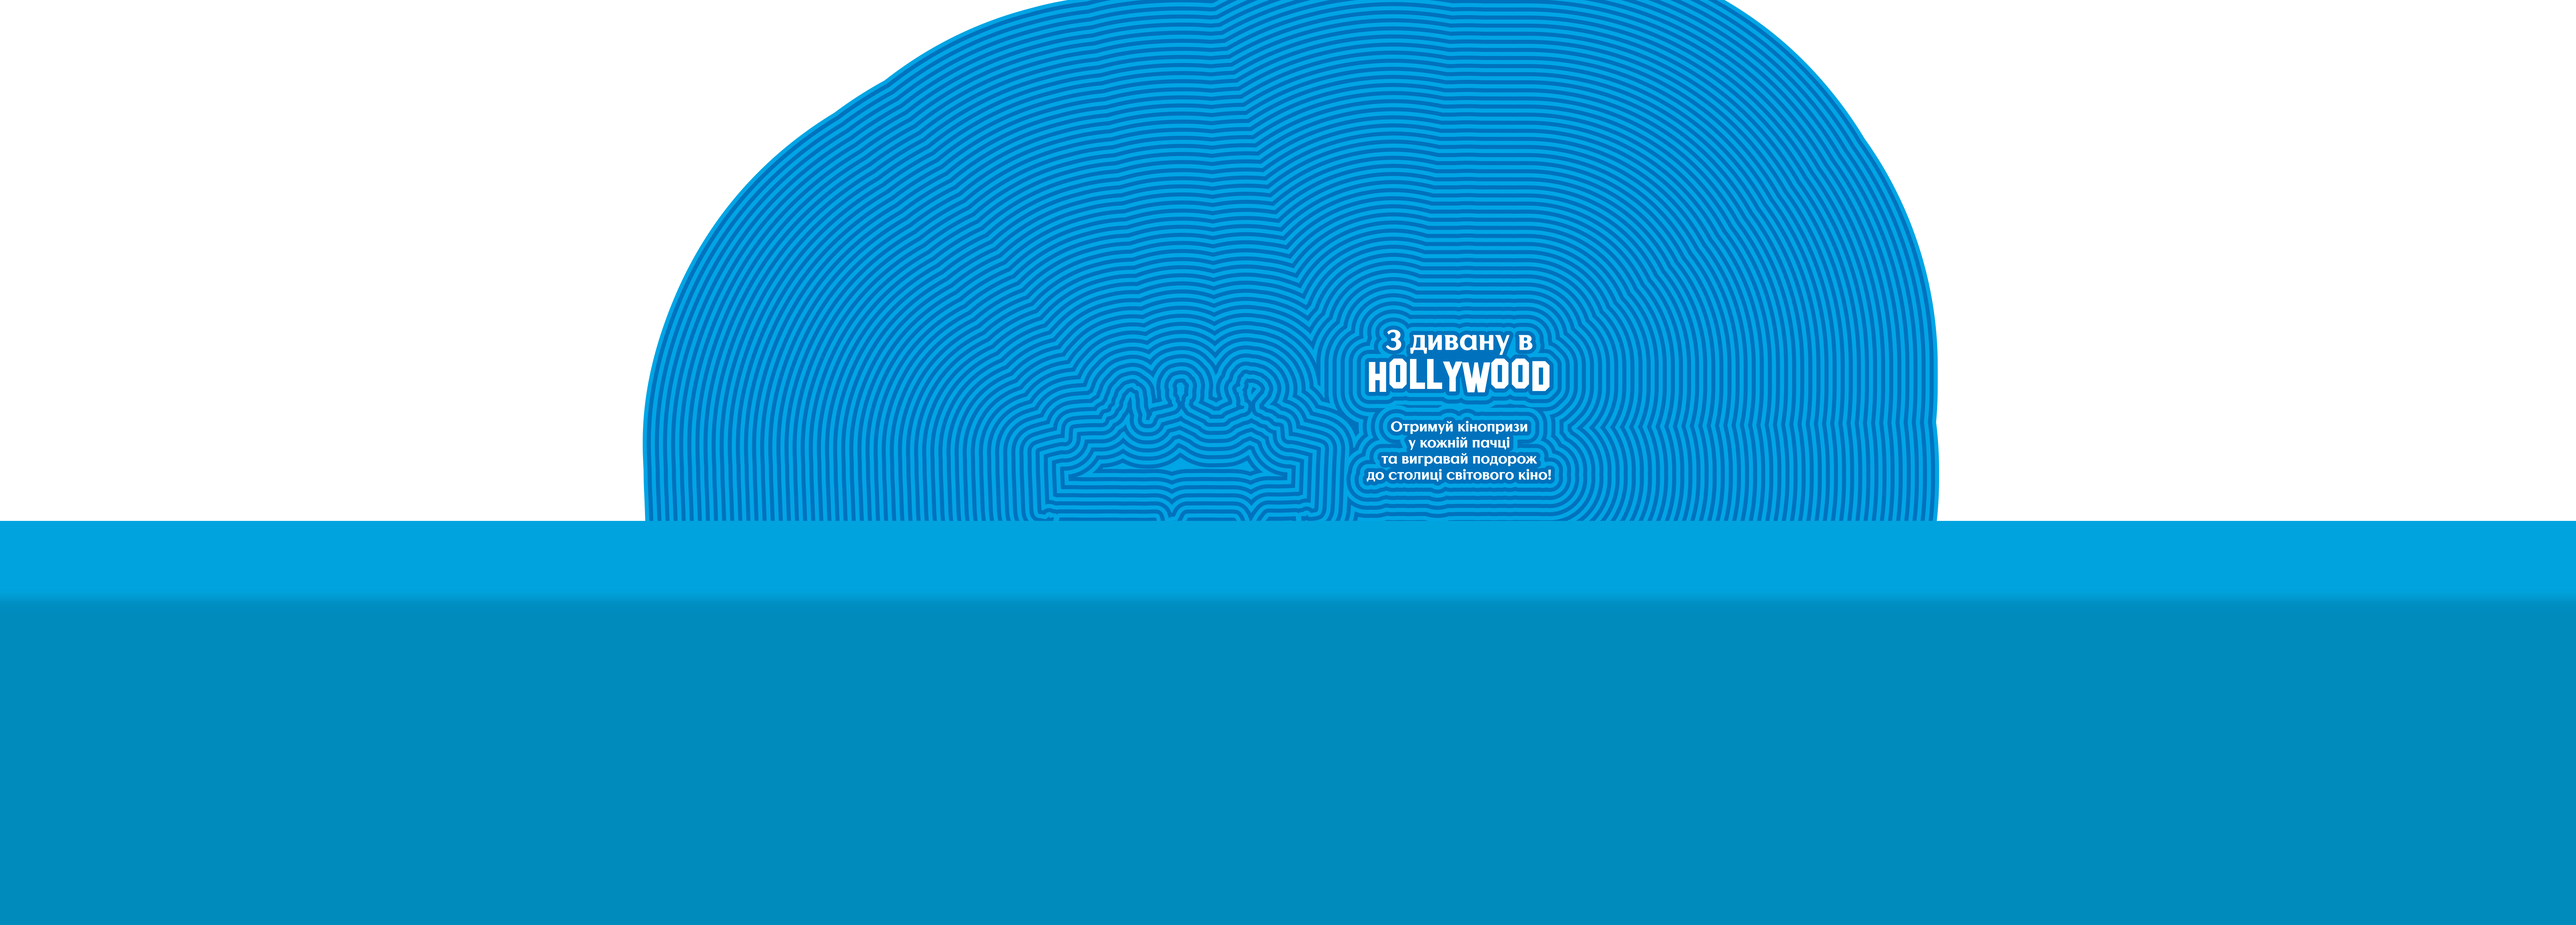
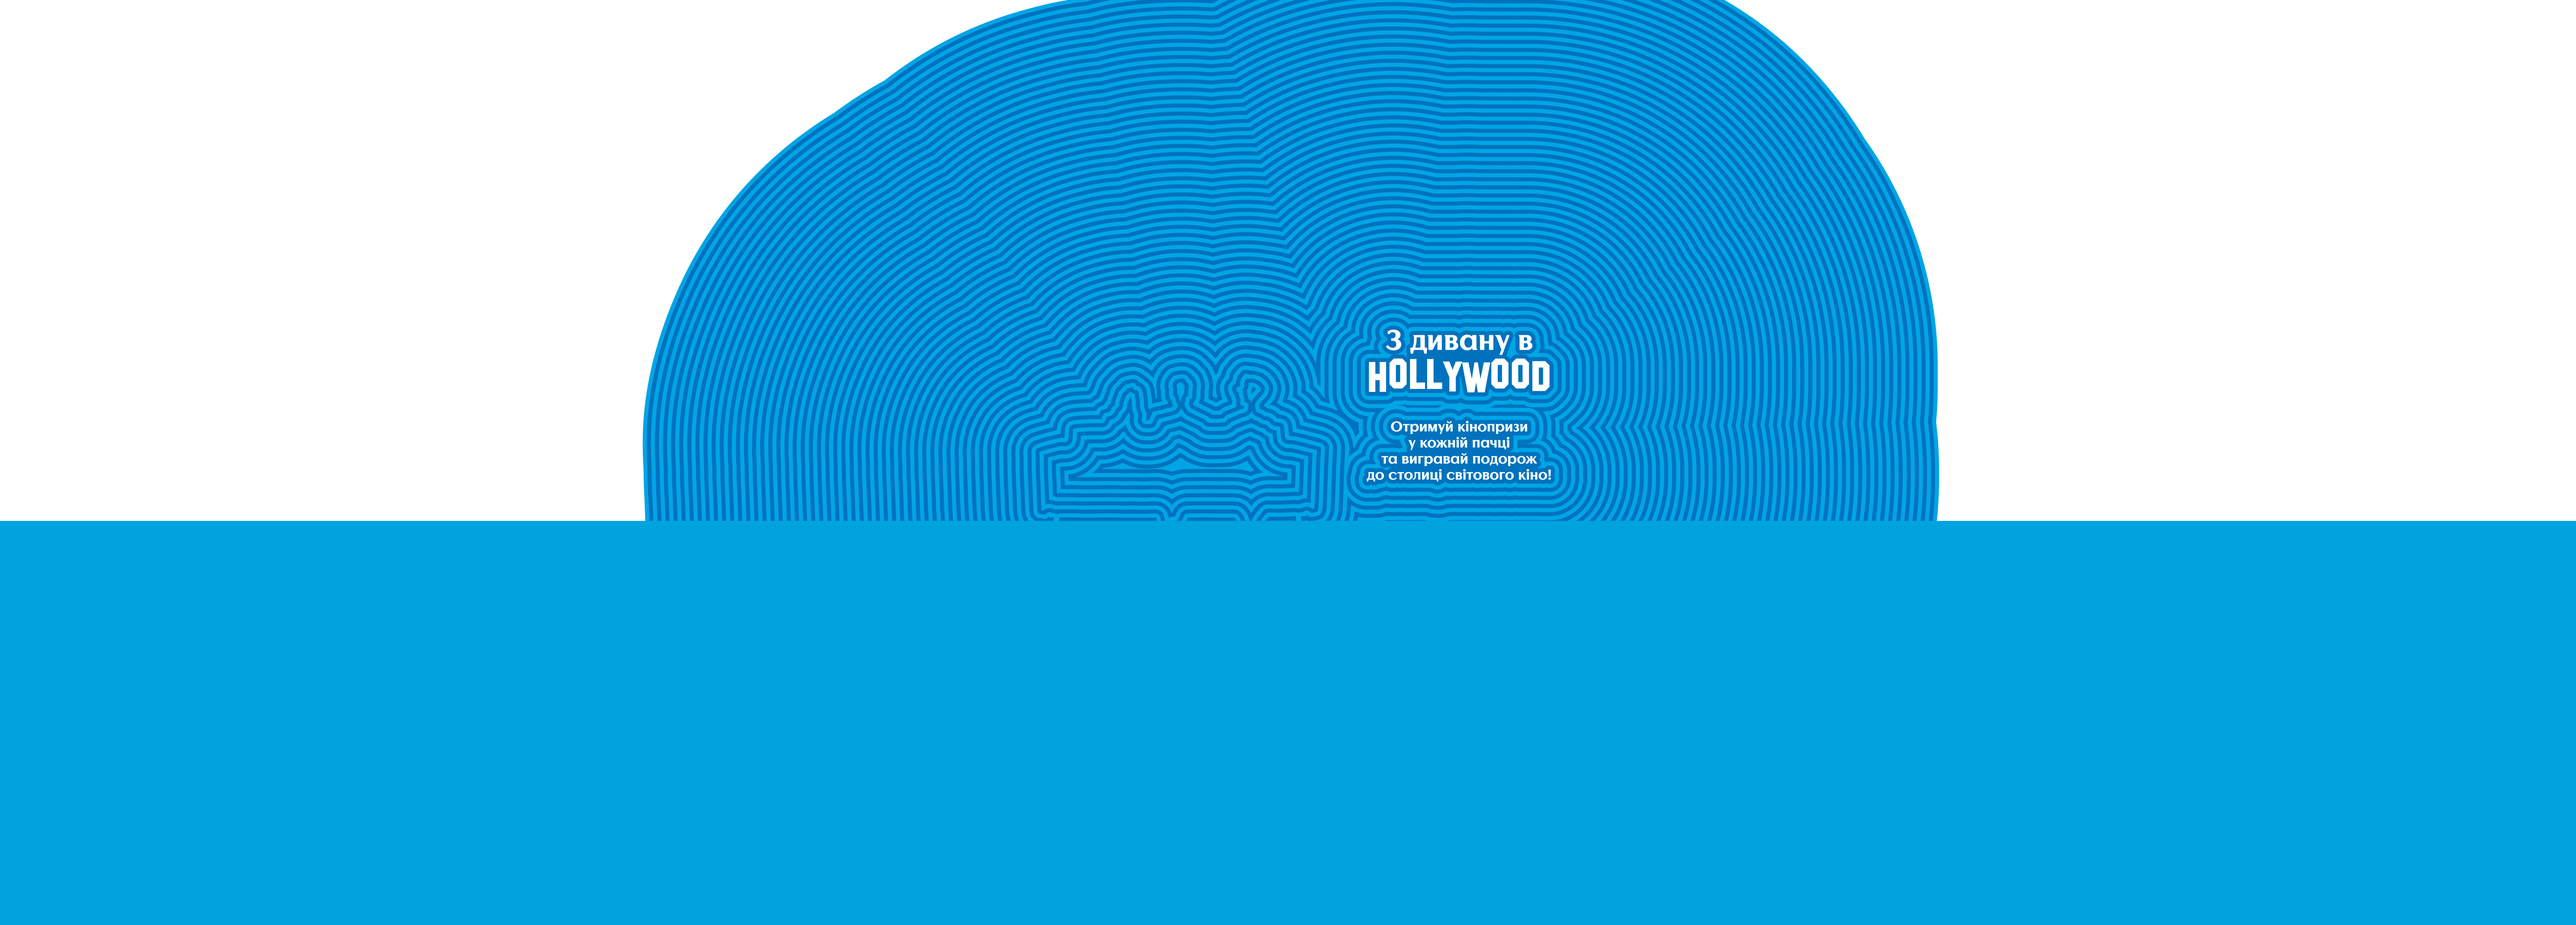
page-header: working on night-mode;

diff --git a/src/js/main.js b/src/js/main.js
@@ -124,25 +124,33 @@ window.addEventListener('DOMContentLoaded', function() {
   var couple = document.querySelector('.room__shadow--couple');
   var superman = document.querySelector('.room__shadow--superman');
   var alien = document.querySelector('.room__shadow--alien');
+  var lamp = document.querySelector('.menu__lamp');
 
   toggleMode.addEventListener('click', function(event) {
     pageHeaderBg.classList.toggle('page-header__bg--night');
     shadow.classList.toggle('tv__shadow--blue');
-    // $('.instruction').css({boxShadow: '0 0 15px rgba(0,0,0,0.3)'});
+    pageHeaderBg.classList.toggle('page-header__bg--mobile-night');
+    document.querySelector('.page-header').classList.toggle('page-header--shadow-night');
+    $('.page-header__bg').css({boxShadow: 'inset 0 -138px 200px rgba(0,0,0,0.4)'});
 
     if (this.checked) {
+      lamp.setAttribute('src', '/img/lamp-off.svg');
       sofa.setAttribute('src', '/img/sofa_cut_blue.png');
       peopleSofa.setAttribute('src', '/img/people_blueShadow.png');
       couple.setAttribute('src', '/img/blueScreen/couple.png');
       superman.setAttribute('src', '/img/blueScreen/superman.png');
       alien.setAttribute('src', '/img/blueScreen/ufo.png');
+      document.querySelector('.page-header').style.backgroundColor = "#00a3de";
+
       $('.find-сode').css({color: '#ffffff'});
     } else {
+      lamp.setAttribute('src', '/img/lamp-on.svg');
       sofa.setAttribute('src', '/img/sofa_cut.png');
       peopleSofa.setAttribute('src', '/img/people_yellowShadow.png');
       couple.setAttribute('src', '/img/shadows/couple.png');
       superman.setAttribute('src', '/img/shadows/superman.png');
       alien.setAttribute('src', '/img/shadows/ufo.png');
+      document.querySelector('.page-header').style.backgroundColor = "#ffdf0c";
       $('.find-сode').css({color: '#DA1B21'});
     }
   });
@@ -811,22 +819,24 @@ function scrollDirection(e) {
     if (document.getElementById('bottom-block') && (reMain.test(window.location.pathname) || reRoot.test(window.location.pathname)) ) {
       window.history.pushState("", "", '/prizes');
       document.getElementById('bottom-block').classList.add('show');
-
+      document.querySelector('.menu__lamp').style.display = 'none';
       animateSecondScreen();
 
     } else if (document.getElementById('js-scroll-hollywood') && rePrizes.test(window.location.pathname)) {
       window.history.pushState("", "", '/hollywood');
       document.getElementById('js-scroll-hollywood').classList.add('show');
-
+      document.querySelector('.menu__lamp').style.display = 'none';
     }
   } else {
     if (document.getElementById('bottom-block') && reHollywood.test(window.location.pathname)) {
       window.history.pushState("", "", '/prizes');
       document.getElementById('js-scroll-hollywood').classList.remove('show');
+      document.querySelector('.menu__lamp').style.display = 'none';
     }
     else if (rePrizes.test(window.location.pathname)) {
       window.history.pushState("", "", '/main');
       document.getElementById('bottom-block').classList.remove('show');
+      document.querySelector('.menu__lamp').style.display = 'block';
     }
   }
 }

diff --git a/src/scss/blocks/nav-menu.scss b/src/scss/blocks/nav-menu.scss
@@ -1,6 +1,13 @@
 $lays-yellow: #feda00;
 $lays-red: #e13016;
 
+
+.menu__inner {
+  background-color: $lays-yellow;
+
+  padding: 2vh;
+}
+
 .menu
 {
     position: fixed;
@@ -10,11 +17,9 @@ $lays-red: #e13016;
 
     box-sizing: border-box;
     width: 15vh;
-    padding: 2vh;
+
 
     transition: background-color 200ms;
-
-    background-color: $lays-yellow;
 
     &:hover
     {
@@ -76,6 +81,14 @@ $lays-red: #e13016;
     {
         margin-top: 2.4vh;
     }
+}
+
+.menu__lamp {
+  position: absolute;
+  bottom: -50%;
+  left: 50%;
+  transform: translateX(-50%);
+  z-index: -1;
 }
 
 
@@ -181,6 +194,14 @@ $lays-red: #e13016;
 //mob Bohdana , (max-width: 567px)
 @media (max-aspect-ratio: 3/3), (max-width: 567px)
 {
+    .menu__lamp {
+      width: 60px;
+      bottom: -70px;
+      transform: none;
+      left: auto;
+      right: 0;
+    }
+
     .menu-inner
     {
         z-index: 6;
@@ -220,19 +241,16 @@ $lays-red: #e13016;
 
         height: 100vh;
     }
-    .menu
-    {
+    .menu{
         position: relative;
 
         display: flex;
 
         width: 100%;
         height: 8vh;
-        padding-top: 3px;
-        padding-bottom: 0;
 
-        flex-flow: row nowrap;
-        align-items: center;
+
+
         .item
         {
             display: block;
@@ -259,6 +277,15 @@ $lays-red: #e13016;
             transform: translateY(-50%);
         }
     }
+    .menu__inner {
+      display: flex;
+      width: 100%;
+      height: 8vh;
+      padding-top: 3px;
+      padding-bottom: 0;
+      flex-flow: row nowrap;
+      align-items: center;
+    }
     .menu.expanded .cross
     {
         position: absolute;
@@ -271,7 +298,6 @@ $lays-red: #e13016;
     }
 }
 
-.menu__toggle-mode
-{
-    display: none;
+.menu__toggle-mode {
+
 }

diff --git a/src/scss/blocks/page-header.scss b/src/scss/blocks/page-header.scss
@@ -13,7 +13,7 @@
   @media (max-aspect-ratio: 3/3), (max-width: 567px) {
     /*iphone 5,6 */
     height: 115vh;
-    background-image: url('../img/wallMobailYellow.png');
+    // background-image: url('../img/wallMobailYellow.png');
     background-size: 200vw auto;
     background-position-y: top;
     margin-top: -32%;
@@ -26,9 +26,13 @@
     }
     @media screen and (min-height: $minHightIphX){
     /*iphone 10 */
+      &--shadow-night {
+        box-shadow: rgba(0, 0, 0, 0.4) 0px -138px 200px inset;
+      }
 
       background-size: 215vw auto;
       margin-top: -30%;
+
     }
   }
   @media screen and (max-height: 400px) {
@@ -60,9 +64,13 @@
   /*//mob Bohdana , (max-width: 567px) */
   @media (max-aspect-ratio: 3/3), (max-width: 567px) {
     /*iphone 5,6 */
-    background-image: url('../img/wallMobailYellow.png');
-    background-size: 200vw auto;
-    background-position-y: top;
+      background-size: 200vw auto;
+      background-position-y: top;
+      background-image: url('../img/wallMobailYellow.png');
+
+      &--mobile-night {
+        background-image: url('../img/wallMobailBlue.png');
+      }
 
     @media screen and (max-height: $maxHightTab){
     /*ipad */

diff --git a/src/template/nav-menu.html b/src/template/nav-menu.html
@@ -1,15 +1,18 @@
 <nav class="nav-menu"></nav>
 
 <div class="menu" id="menu-block">
-  <div class="cross" id="close-menu"></div>
-  <img src="/img/menu/movieText.png" class="item logan-fhd"/>
+  <div class="menu__inner">
+      <div class="cross" id="close-menu"></div>
+      <img src="/img/menu/movieText.png" class="item logan-fhd"/>
 
-  <a href="https://lays.ua/" class="item logo-lays">
-    <img src='/img/menu/logo-lays-fhd.png'
-       class="item logo-lays"/>
-   </a>
-  <img src='/img/menu/hamburger-menu-icon.svg' class="item hamburger-menu-icon" id="open-menu">
-  <input class="menu__toggle-mode" type="checkbox" name="" id="">
+      <a href="https://lays.ua/" class="item logo-lays">
+        <img src='/img/menu/logo-lays-fhd.png'
+           class="item logo-lays"/>
+       </a>
+      <img src='/img/menu/hamburger-menu-icon.svg' class="item hamburger-menu-icon" id="open-menu">
+      <input class="menu__toggle-mode" type="checkbox" name="" id="">
+      <img class="menu__lamp" src="/img/lamp-on.svg" alt="" width="132" height="238">
+  </div>
 </div>
 
 <div class="menu-inner-wrapper" id="close-menu-bg"></div>

diff --git a/src/index.html b/src/index.html
@@ -16,8 +16,16 @@
 
 	<script async defer src='https://www.google.com/recaptcha/api.js'></script>
     <link rel="icon" type="image/vnd.microsoft.icon" href="/img/favicon.ico">
-	<title>Кіно смакує краще з Lay’s</title>
-
+  <title>Кіно смакує краще з Lay’s</title>
+  <link rel="preload" href="/img/lamp-on.svg" as="image">
+  <link rel="preload" href="/img/lamp-off.svg" as="image">
+  <link rel="preload" href="/img/sofa_cut_blue.png" as="image">
+  <link rel="preload" href="/img/people_blueShadow.png" as="image">
+  <link rel="preload" href="/img/blueScreen/couple.png" as="image">
+  <link rel="preload" href="/img/blueScreen/superman.png" as="image">
+  <link rel="preload" href="/img/blueScreen/ufo.png" as="image">
+  <link rel="preload" href="/img/night-mode.png" as="image">
+  <link rel="preload" href="/img/wallRedTextMini.png" as="image">
 </head>
 <body>
 	<!-- Google Tag Manager (noscript) -->
